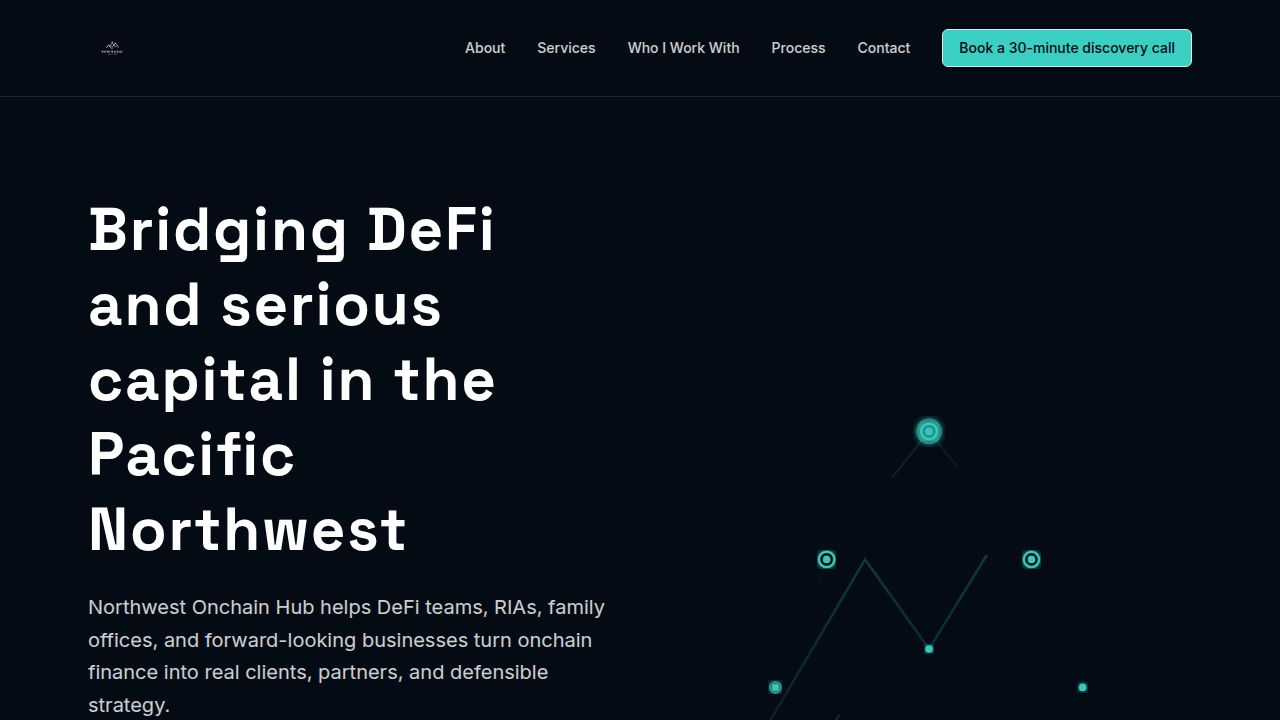
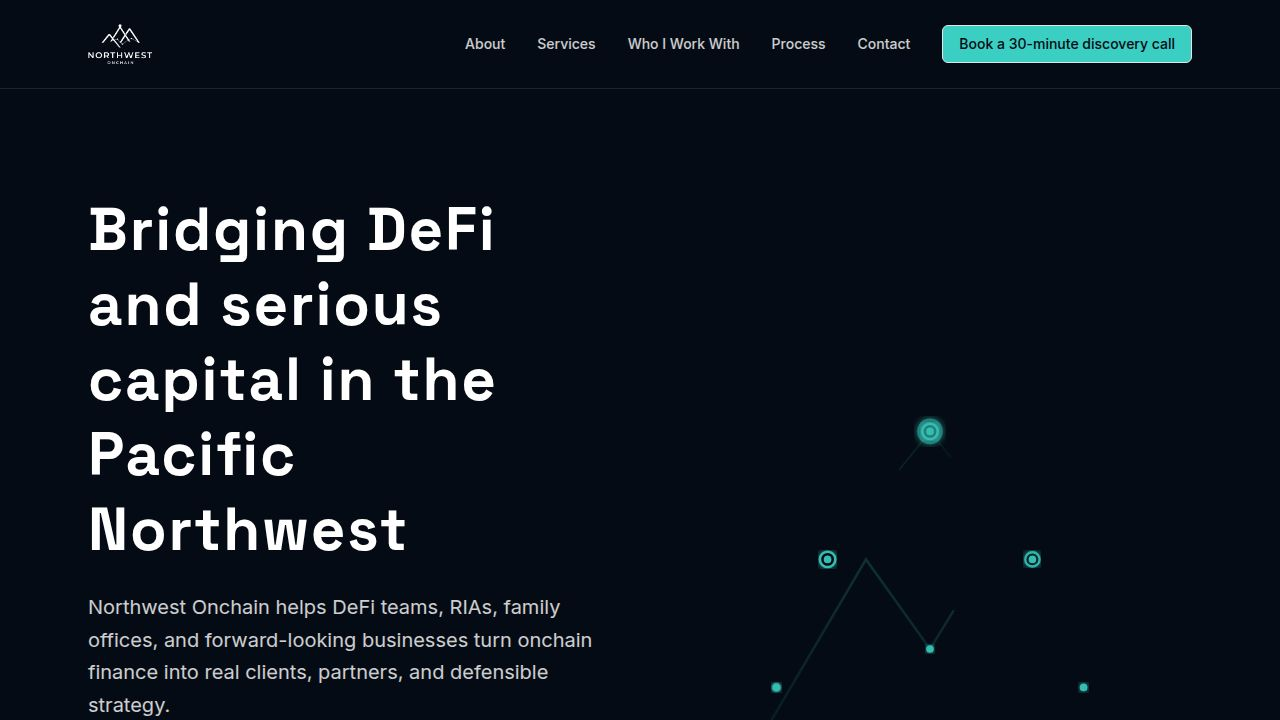
Remove "Hub" from all instances of "Northwest Onchain Hub"
Updates title, meta tags, and various text elements across the application to remove the word "Hub" from "Northwest Onchain Hub", standardizing the project name.

Replit-Commit-Author: Agent
Replit-Commit-Session-Id: 202255c5-54ec-4e7e-a531-fd6ada1c499b
Replit-Commit-Checkpoint-Type: full_checkpoint
Replit-Commit-Event-Id: 262095ed-5f00-4cb5-867c-dd0f93f1d74a
Replit-Commit-Screenshot-Url: https://storage.googleapis.com/screenshot-production-us-central1/9020d97c-705f-45d3-894b-57a797301e9c/202255c5-54ec-4e7e-a531-fd6ada1c499b/mP2S8Or

diff --git a/client/src/pages/home.tsx b/client/src/pages/home.tsx
@@ -226,7 +226,7 @@ export default function Home() {
             <a href="/" className="navbar-brand">
               <img 
                 src="/nw-logo.png" 
-                alt="Northwest Onchain Hub" 
+                alt="Northwest Onchain" 
                 className={`navbar-logo transition-all duration-300 ${isScrolled ? '' : 'brightness-0 invert'}`}
               />
             </a>
@@ -296,7 +296,7 @@ export default function Home() {
               </motion.h1>
               
               <motion.p variants={fadeInUp} className="text-white/80 mb-8 text-lg md:text-xl leading-relaxed">
-                Northwest Onchain Hub helps DeFi teams, RIAs, family offices, and forward-looking businesses turn onchain finance into real clients, partners, and defensible strategy.
+                Northwest Onchain helps DeFi teams, RIAs, family offices, and forward-looking businesses turn onchain finance into real clients, partners, and defensible strategy.
               </motion.p>
 
               <motion.div variants={fadeInUp} className="flex flex-wrap gap-3 mb-10">
@@ -341,7 +341,7 @@ export default function Home() {
       <section id="about" className="section-spacing bg-background">
         <div className="container-constrained">
           <div className="max-w-3xl mx-auto text-center mb-16">
-            <h2 className="mb-4">About Northwest Onchain Hub</h2>
+            <h2 className="mb-4">About Northwest Onchain</h2>
             <p className="text-primary text-lg font-medium">A bridge between Wall Street, DeFi, and the Pacific Northwest</p>
           </div>
 
@@ -356,7 +356,7 @@ export default function Home() {
                <div className="absolute -inset-4 bg-muted/30 rounded-2xl -rotate-2 -z-10"></div>
                <img 
                   src={profilePic} 
-                  alt="Photo of Jordan Tonani, founder of Northwest Onchain Hub" 
+                  alt="Photo of Jordan Tonani, founder of Northwest Onchain" 
                   className="w-full h-auto rounded-xl shadow-lg object-cover aspect-[4/5]"
                 />
             </motion.div>
@@ -370,7 +370,7 @@ export default function Home() {
             >
               <div className="space-y-5 text-muted-foreground text-lg leading-relaxed mb-10">
                 <p>
-                  I'm Jordan Tonani, the founder of Northwest Onchain Hub.
+                  I'm Jordan Tonani, the founder of Northwest Onchain.
                 </p>
                 <p>
                   I started my career as a financial advisor at Morgan Stanley, then moved full-time into crypto and DeFi business development. I've worked with onchain lending platforms, structured products, and trading firms, and I'm deeply plugged into EVM-native DeFi, market makers, and the broader crypto ecosystem.
@@ -754,7 +754,7 @@ export default function Home() {
         <div className="container-constrained">
           <div className="flex flex-col items-center gap-6 mb-8">
              <div className="flex items-center">
-                <img src="/nw-logo.png" alt="Northwest Onchain Hub" className="h-16 w-auto brightness-0 invert" />
+                <img src="/nw-logo.png" alt="Northwest Onchain" className="h-16 w-auto brightness-0 invert" />
               </div>
               <p className="text-white/60 max-w-md mx-auto text-center">
                 Based in Seattle, working with clients globally.
@@ -766,9 +766,9 @@ export default function Home() {
             </Button>
           </div>
           <div className="border-t border-white/10 pt-8 text-center">
-            <p className="text-sm text-white/40 mb-4">© {new Date().getFullYear()} Northwest Onchain Hub. All rights reserved.</p>
+            <p className="text-sm text-white/40 mb-4">© {new Date().getFullYear()} Northwest Onchain. All rights reserved.</p>
             <p className="text-xs text-white/30 max-w-2xl mx-auto leading-relaxed">
-              Northwest Onchain Hub provides education and consulting services only. Nothing on this site or in our engagements is individualized investment, legal, or tax advice.
+              Northwest Onchain provides education and consulting services only. Nothing on this site or in our engagements is individualized investment, legal, or tax advice.
             </p>
           </div>
         </div>

diff --git a/client/index.html b/client/index.html
@@ -4,14 +4,14 @@
     <meta charset="UTF-8" />
     <meta name="viewport" content="width=device-width, initial-scale=1.0, maximum-scale=1" />
 
-    <title>Northwest Onchain Hub | Crypto & DeFi Strategy</title>
-    <meta property="og:title" content="Northwest Onchain Hub | Crypto & DeFi Strategy" />
+    <title>Northwest Onchain | Crypto & DeFi Strategy</title>
+    <meta property="og:title" content="Northwest Onchain | Crypto & DeFi Strategy" />
     <meta property="og:description" content="Onchain BD & crypto education for RIAs, family offices, and DeFi teams in the Pacific Northwest." />
     <meta property="og:type" content="website" />
     <meta property="og:image" content="https://replit.com/public/images/opengraph.png" />
     <meta name="twitter:card" content="summary_large_image" />
     <meta name="twitter:site" content="@replit" />
-    <meta name="twitter:title" content="Northwest Onchain Hub | Crypto & DeFi Strategy" />
+    <meta name="twitter:title" content="Northwest Onchain | Crypto & DeFi Strategy" />
     <meta name="twitter:description" content="Onchain BD & crypto education for RIAs, family offices, and DeFi teams in the Pacific Northwest." />
     <meta name="twitter:image" content="https://replit.com/public/images/opengraph.png" />
 
